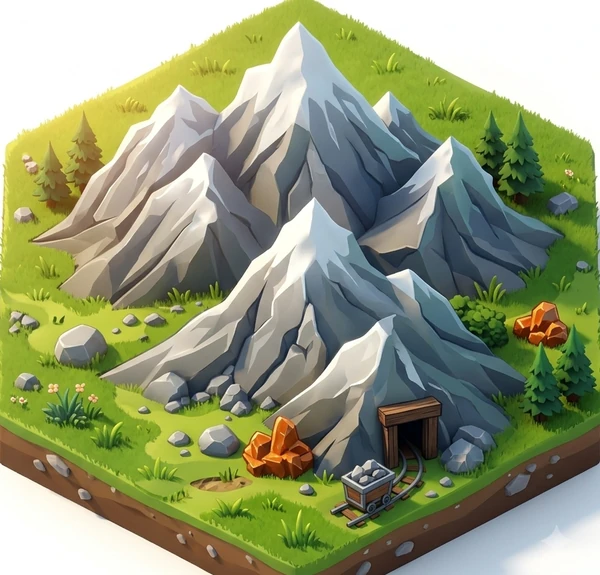
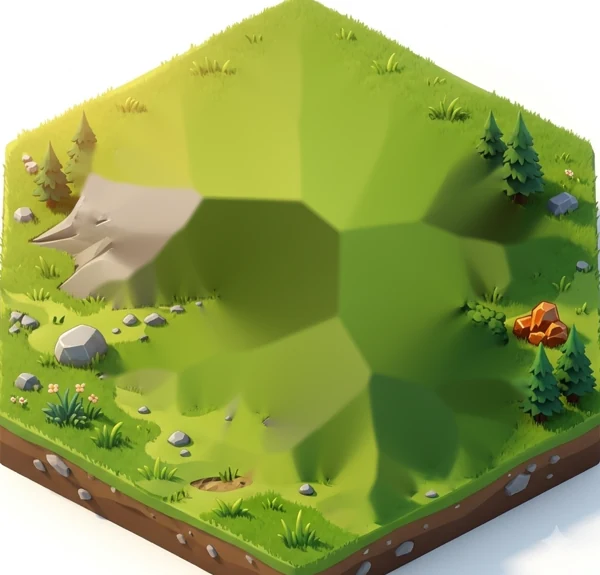
Núi đá 3D tràn viền ô, đổ bóng
Claude-Session: https://claude.ai/code/session_01C6iMuiryePgrs9m7ahj8VB

diff --git a/games/dao-khai-hoang/art.js b/games/dao-khai-hoang/art.js
@@ -128,9 +128,16 @@ const KHART=(()=>{
     // ô đất (đế 3D + hình)
     H.forEach((hx,i)=>{ const cx=hx.x*R, cy=hx.y*R; s+=`<polygon points="${hexPts(cx,cy+6,R-1)}" fill="#4a3018"/><polygon points="${hexPts(cx+2,cy+9,R)}" fill="#000" opacity=".22" filter="url(#khSoft)"/>`; });
     H.forEach((hx,i)=>{ const cx=hx.x*R, cy=hx.y*R, hd=S.hex[i];
-      const HI=(window.KH_IMGS||{}).hex||[]; s+=`<g clip-path="url(#khc${i})">${HI.includes(hd.res)?`${hd.res===4?`<image href="assets/hex-4.webp?v=20261127a" x="${f(cx-R*.9)}" y="${f(cy-R*1.04)}" width="${f(R*1.8)}" height="${f(R*2.08)}" preserveAspectRatio="none"/>`:`<image href="assets/hex-${hd.res}.webp?v=20261127a" x="${f(cx-R*1.1)}" y="${f(cy-R*1.1)}" width="${f(R*2.2)}" height="${f(R*2.2)}" preserveAspectRatio="xMidYMid slice"/>`}`:terrain(hd.res,cx,cy,i)}<rect x="${f(cx-R)}" y="${f(cy-R)}" width="${2*R}" height="${2*R}" filter="url(#khNoise)" opacity=".07"/></g>`;
+      const HI=(window.KH_IMGS||{}).hex||[]; s+=`<g clip-path="url(#khc${i})">${HI.includes(hd.res)?`${hd.res===4?`<image href="assets/hex-4.webp?v=20261127b" x="${f(cx-R*.9)}" y="${f(cy-R*1.04)}" width="${f(R*1.8)}" height="${f(R*2.08)}" preserveAspectRatio="none"/>`:`<image href="assets/hex-${hd.res}.webp?v=20261127b" x="${f(cx-R*1.1)}" y="${f(cy-R*1.1)}" width="${f(R*2.2)}" height="${f(R*2.2)}" preserveAspectRatio="xMidYMid slice"/>`}`:terrain(hd.res,cx,cy,i)}<rect x="${f(cx-R)}" y="${f(cy-R)}" width="${2*R}" height="${2*R}" filter="url(#khNoise)" opacity=".07"/></g>`;
       s+=`<polygon points="${hexPts(cx,cy,R-1)}" fill="none" stroke="#25140a" stroke-width="3.4" stroke-linejoin="round"/><polygon points="${hexPts(cx,cy,R-3.5)}" fill="none" stroke="url(#khBevel)" stroke-width="2.4"/><polygon points="${hexPts(cx,cy,R)}" fill="none" stroke="#f6ead0" stroke-width="2.2"/>`;
-      if(hd.num) s+=token(cx,cy+8,hd.num); });
+      });
+    // núi tràn viền (sprite 3D đè lên ô)
+    H.forEach((hx,i)=>{ const hd=S.hex[i]; if(hd.res!==4) return; const cx=hx.x*R, cy=hx.y*R, sx=1.8*R/914, sy=2.08*R/876, k=1.26;
+      const bx=cx-.9*R+(114+371)*sx, by=cy-1.04*R+(37+700)*sy;
+      const w=743*sx*k, h=764*sy*k, x=bx-(114+371-114)*0+(-371*sx*k)+0, y=by-(700*sy*k);
+      const u=`assets/hex-4-top.webp?v=20261127b`;
+      s+=`<image href="${u}" x="${f(x+2)}" y="${f(y+9)}" width="${f(w)}" height="${f(h)}" preserveAspectRatio="none" style="filter:brightness(0)" opacity=".28"/><image href="${u}" x="${f(x)}" y="${f(y)}" width="${f(w)}" height="${f(h)}" preserveAspectRatio="none"/>`; });
+    H.forEach((hx,i)=>{ const hd=S.hex[i]; if(hd.num) s+=token(hx.x*R,hx.y*R+8,hd.num); });
     return s; }
   function island(k){ k=k||1; const p=[]; const R2=R*4.85*k; for(let i=0;i<6;i++){ const a=Math.PI/180*(60*i); p.push(f(R2*Math.cos(a))+','+f(R2*Math.sin(a))); } return p.join(' '); }
   // ---------- xúc xắc ----------
@@ -143,7 +150,7 @@ const KHART=(()=>{
   function resCard(r){ if(ccache['r'+r]) return ccache['r'+r]; const id='khrc'+r, nm=RN[r].toUpperCase();
     const s=`<svg viewBox="0 0 100 76" class="rcard"><defs>
       <linearGradient id="${id}w" x1="0" y1="0" x2="0" y2="1"><stop offset="0" stop-color="#c98a52"/><stop offset=".45" stop-color="#a8642f"/><stop offset="1" stop-color="#7d4520"/></linearGradient></defs>
-      <image href="assets/res-${r}.webp?v=20261127a" x="1" y="10" width="98" height="65" preserveAspectRatio="none"/>
+      <image href="assets/res-${r}.webp?v=20261127b" x="1" y="10" width="98" height="65" preserveAspectRatio="none"/>
       <g class="plank" transform="scale(1,.88)"><path d="M13 3.5 L16 1.5 H84 L87 3.5 L89 5.5 V17.5 L87 19.5 L84 21.5 H16 L13 19.5 L11 17.5 V5.5Z" fill="#1b0f06" transform="translate(0,1.2)" opacity=".55"/>
       <path d="M13 3 L16 1 H84 L87 3 L89 5 V17 L87 19 L84 21 H16 L13 19 L11 17 V5Z" fill="url(#${id}w)" stroke="#1b0f06" stroke-width="1.6" stroke-linejoin="round"/>
       <path d="M15 5 H55 M60 4.6 H84 M16 11 H40 M47 10.6 H70 M74 11 H86 M15 17.6 H48 M56 17.4 H84" stroke="#6b3a17" stroke-width=".7" stroke-linecap="round" fill="none" opacity=".7"/>

diff --git a/games/dao-khai-hoang/index.html b/games/dao-khai-hoang/index.html
@@ -12,10 +12,10 @@
 <script src="../../core/effects.js"></script>
 <script src="../../core/table.js"></script>
 <script src="../../core/cards.js"></script>
-<script src="game.js?v=20261127a"></script>
-<script src="assets/imgs.js?v=20261127a"></script>
-<script src="art.js?v=20261127a"></script>
-<script src="ui.js?v=20261127a"></script>
+<script src="game.js?v=20261127b"></script>
+<script src="assets/imgs.js?v=20261127b"></script>
+<script src="art.js?v=20261127b"></script>
+<script src="ui.js?v=20261127b"></script>
 <script>
 const CSS=`#kh{padding:8px 10px 14px;min-height:calc(100vh - 60px);background:radial-gradient(ellipse at 40% 30%,#6b4524 0%,#4a2d15 55%,#2c1a0b 100%);color:#f6ead0}
 #kh::before{content:"";position:fixed;inset:0;pointer-events:none;opacity:.18;background:repeating-linear-gradient(92deg,transparent 0 22px,rgba(0,0,0,.25) 22px 24px,transparent 24px 60px),repeating-linear-gradient(88deg,rgba(255,220,170,.06) 0 3px,transparent 3px 9px)}
